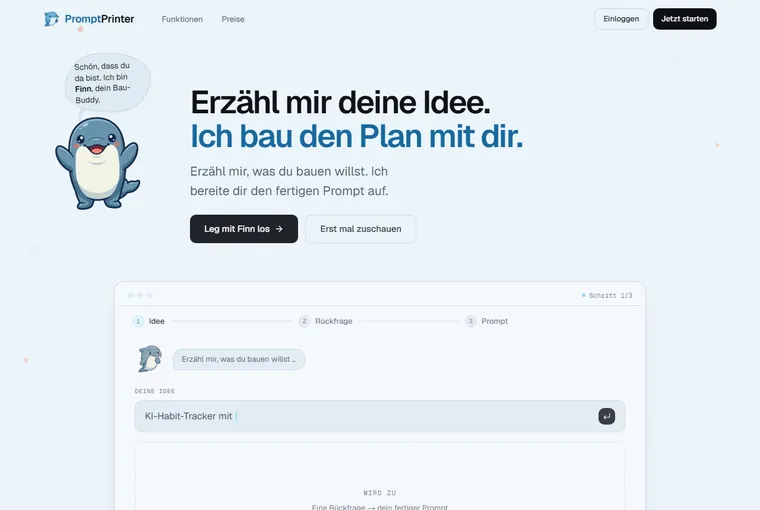
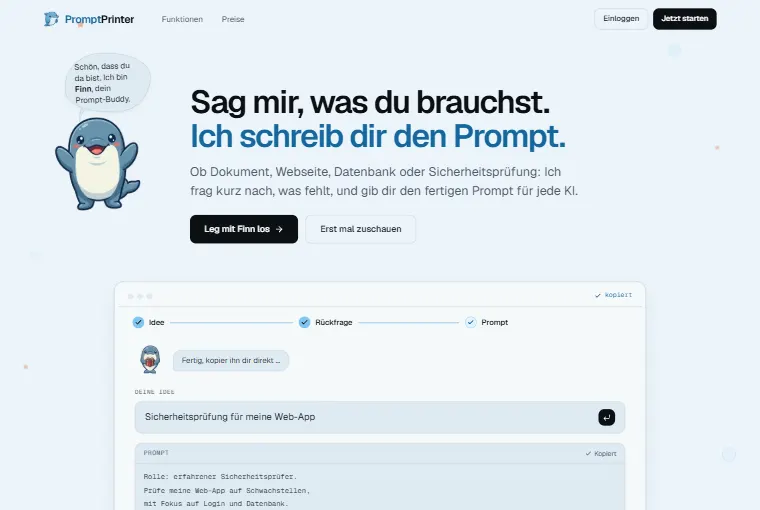
Referenzen: PromptPrinter-Kachel zeigt den aktuellen Kopf der Seite, Alt-Texte nachgezogen

diff --git a/fr/references/index.html b/fr/references/index.html
@@ -229,7 +229,7 @@
                        /medien/referenzen/promptprinter-startseite.webp 1280w"
                sizes="(min-width: 640px) 500px, 100vw"
                width="1280" height="860" loading="lazy" decoding="async"
-               alt="Capture d’écran de la page d’accueil&nbsp;: en-tête clair avec le titre Erzähl mir deine Idee, une figure dessinée à côté et, en dessous, le formulaire de l’assistant en trois étapes">
+               alt="Capture d’écran de la page d’accueil&nbsp;: en-tête clair avec le titre Sag mir, was du brauchst, une figure dessinée à côté et, en dessous, le formulaire de l’assistant en trois étapes avec un prompt terminé">
           <span class="name">PromptPrinter<span class="nur-fuer-screenreader">, ouvre promptprinter.app dans un nouvel onglet</span></span>
         </a>
         <figcaption><span class="filmbild-nr" aria-hidden="true">2</span><span>Produit maison</span><span>2026</span></figcaption>

diff --git a/referenzen/index.html b/referenzen/index.html
@@ -379,7 +379,7 @@
                        ../medien/referenzen/promptprinter-startseite.webp 1280w"
                sizes="(min-width: 640px) 500px, 100vw"
                width="1280" height="860" loading="lazy" decoding="async"
-               alt="Bildschirmfoto der Startseite: heller Kopfbereich mit der Überschrift Erzähl mir deine Idee, daneben eine gezeichnete Figur, darunter die Eingabemaske des dreistufigen Assistenten">
+               alt="Bildschirmfoto der Startseite: heller Kopfbereich mit der Überschrift Sag mir, was du brauchst, daneben eine gezeichnete Figur, darunter die Eingabemaske des dreistufigen Assistenten mit einem fertigen Prompt">
           <span class="name">PromptPrinter<span class="nur-fuer-screenreader">, öffnet promptprinter.app in einem neuen Tab</span></span>
         </a>
         <figcaption><span class="filmbild-nr" aria-hidden="true">2</span><span>Eigenes Produkt</span><span>2026</span></figcaption>

diff --git a/fr/index.html b/fr/index.html
@@ -383,7 +383,7 @@
                        /medien/referenzen/promptprinter-startseite.webp 1280w"
                sizes="(min-width: 860px) 380px, 100vw"
                width="1280" height="860" loading="lazy" decoding="async"
-               alt="Capture d’écran de la page d’accueil&nbsp;: en-tête clair avec le titre Erzähl mir deine Idee, une figure dessinée à côté et, en dessous, le formulaire de l’assistant en trois étapes">
+               alt="Capture d’écran de la page d’accueil&nbsp;: en-tête clair avec le titre Sag mir, was du brauchst, une figure dessinée à côté et, en dessous, le formulaire de l’assistant en trois étapes avec un prompt terminé">
           <span class="name">PromptPrinter<span class="nur-fuer-screenreader">, ouvre promptprinter.app dans un nouvel onglet</span></span>
         </a>
           <figcaption><span>Produit maison</span><span>2026</span></figcaption>

diff --git a/index.html b/index.html
@@ -612,7 +612,7 @@
                          medien/referenzen/promptprinter-startseite.webp 1280w"
                  sizes="(min-width: 860px) 380px, 100vw"
                  width="1280" height="860" loading="lazy" decoding="async"
-                 alt="Bildschirmfoto der Startseite: heller Kopfbereich mit der Überschrift Erzähl mir deine Idee, daneben eine gezeichnete Figur, darunter die Eingabemaske des dreistufigen Assistenten">
+                 alt="Bildschirmfoto der Startseite: heller Kopfbereich mit der Überschrift Sag mir, was du brauchst, daneben eine gezeichnete Figur, darunter die Eingabemaske des dreistufigen Assistenten mit einem fertigen Prompt">
             <span class="name">PromptPrinter<span class="nur-fuer-screenreader">, öffnet promptprinter.app in einem neuen Tab</span></span>
           </a>
           <figcaption><span>Eigenes Produkt</span><span>2026</span></figcaption>

diff --git a/en/portfolio/index.html b/en/portfolio/index.html
@@ -229,7 +229,7 @@
                        /medien/referenzen/promptprinter-startseite.webp 1280w"
                sizes="(min-width: 640px) 500px, 100vw"
                width="1280" height="860" loading="lazy" decoding="async"
-               alt="Screenshot of the home page: light header with the heading Erzähl mir deine Idee, a drawn figure beside it and the input form of the three-step assistant below">
+               alt="Screenshot of the home page: light header with the heading Sag mir, was du brauchst, a drawn figure beside it and the input form of the three-step assistant with a finished prompt below">
           <span class="name">PromptPrinter<span class="nur-fuer-screenreader">, opens promptprinter.app in a new tab</span></span>
         </a>
         <figcaption><span class="filmbild-nr" aria-hidden="true">2</span><span>Our own product</span><span>2026</span></figcaption>

diff --git a/en/index.html b/en/index.html
@@ -383,7 +383,7 @@
                        /medien/referenzen/promptprinter-startseite.webp 1280w"
                sizes="(min-width: 860px) 380px, 100vw"
                width="1280" height="860" loading="lazy" decoding="async"
-               alt="Screenshot of the home page: light header with the heading Erzähl mir deine Idee, a drawn figure beside it and the input form of the three-step assistant below">
+               alt="Screenshot of the home page: light header with the heading Sag mir, was du brauchst, a drawn figure beside it and the input form of the three-step assistant with a finished prompt below">
           <span class="name">PromptPrinter<span class="nur-fuer-screenreader">, opens promptprinter.app in a new tab</span></span>
         </a>
           <figcaption><span>Our own product</span><span>2026</span></figcaption>
